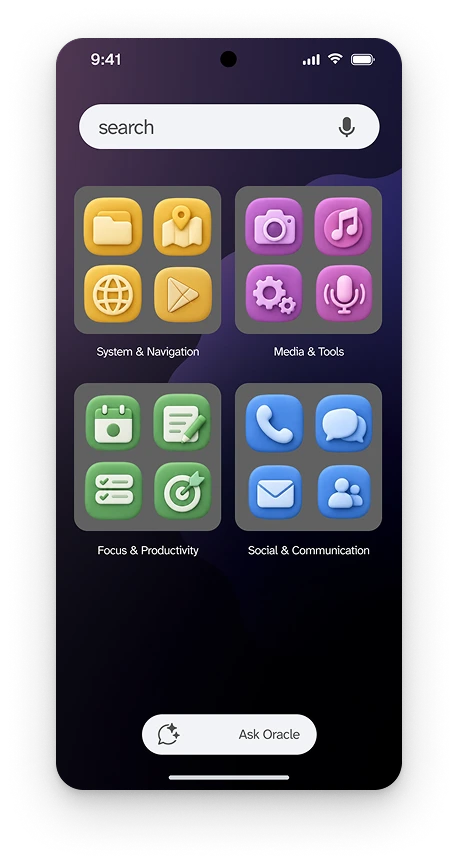
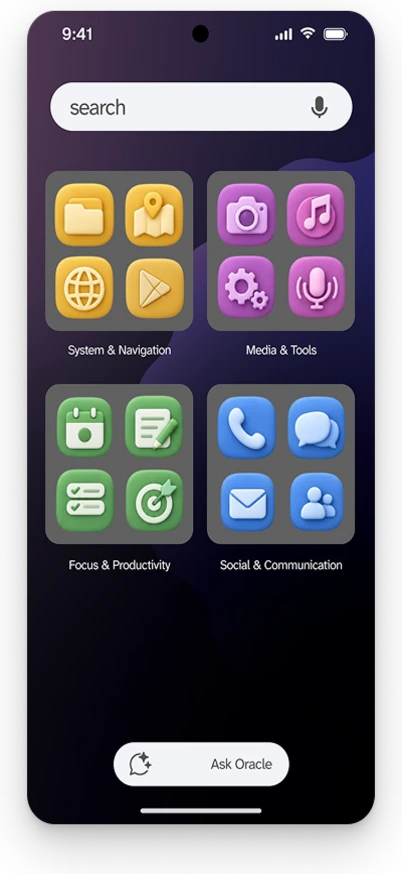
Add User Flow diagram and fix App Drawer screen proportions
- Adds the User Flow section with the clean flow diagram covering
  onboarding, the OS layer, and the Focus/Inbox app loops.
- app-drawer.webp had a different native aspect ratio than every
  other screen (different device frame in its source export), so it
  rendered as a visibly shorter/stubbier phone next to lock-screen.webp
  despite sharing the same CSS width cap. Cropped and normalized it to
  match the site's standard phone proportions.

Claude-Session: https://claude.ai/code/session_01ABoxSrGLR5kJVAU4Q3hr6i

diff --git a/src/content/work/neoos.md b/src/content/work/neoos.md
@@ -142,6 +142,14 @@ Beyond the numbers, I sat in on sessions at Zen Mind, Akshar Psychiatric Clinic,
 </li>
 </ul>
 
+## User Flow
+
+Onboarding splits into the OS layer and the two native apps, Focus and Inbox, each with its own short loop back to the home screen rather than one long path a teen has to retrace every time.
+
+<figure class="figure--flush">
+<img src="/images/neoos/user-flow.webp" alt="NeoOS user flow diagram: Installs UI leads through Onboarding (Information, Focus, Feel), font choice, and home screen setup, then branches into the Focus app loop (current task, timer, full day tasks) and the Inbox app loop (message stack, AI summary or full messages, reply), both returning to the home screen" />
+</figure>
+
 ## Final Design
 
 Every screen below answers a specific piece of the research: an abrupt support drop at 15–16, a teen who can't always name what he's feeling, and a parent who only wants confirmation without a follow-up call.
